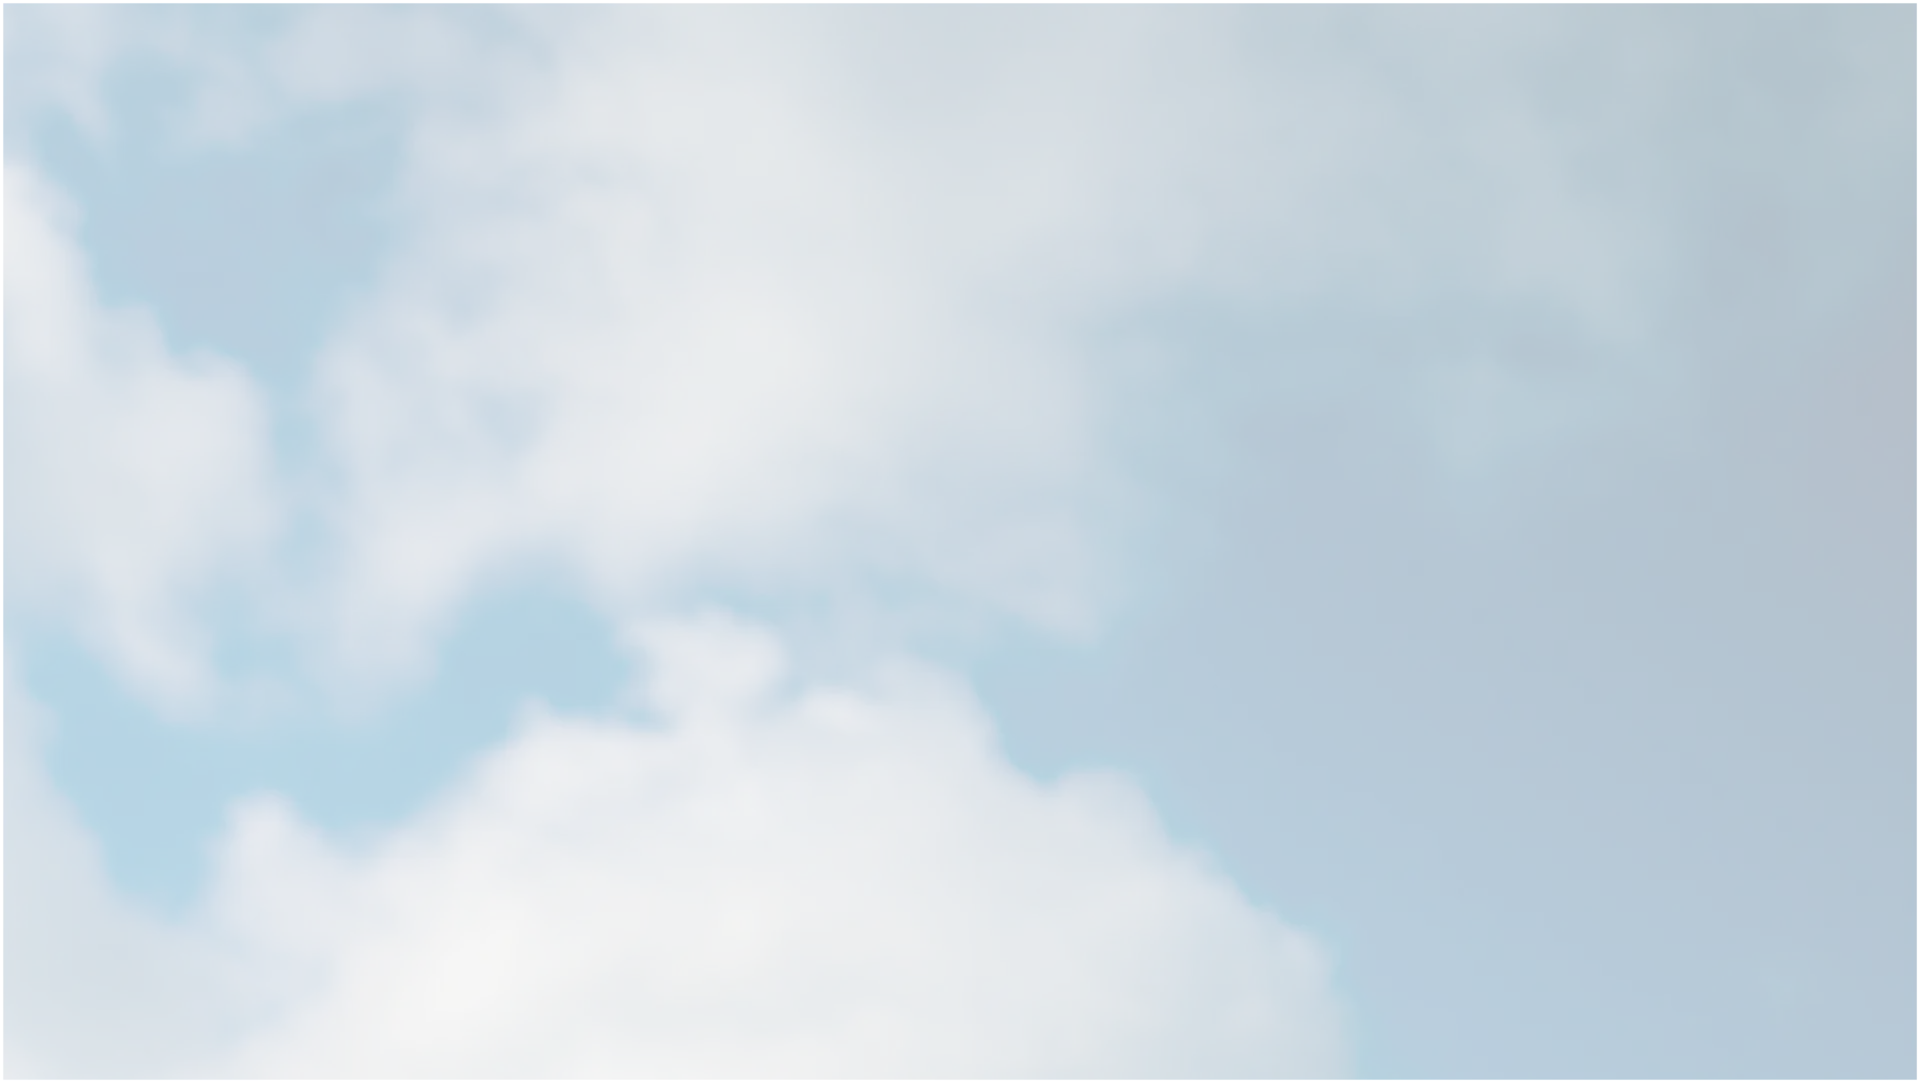
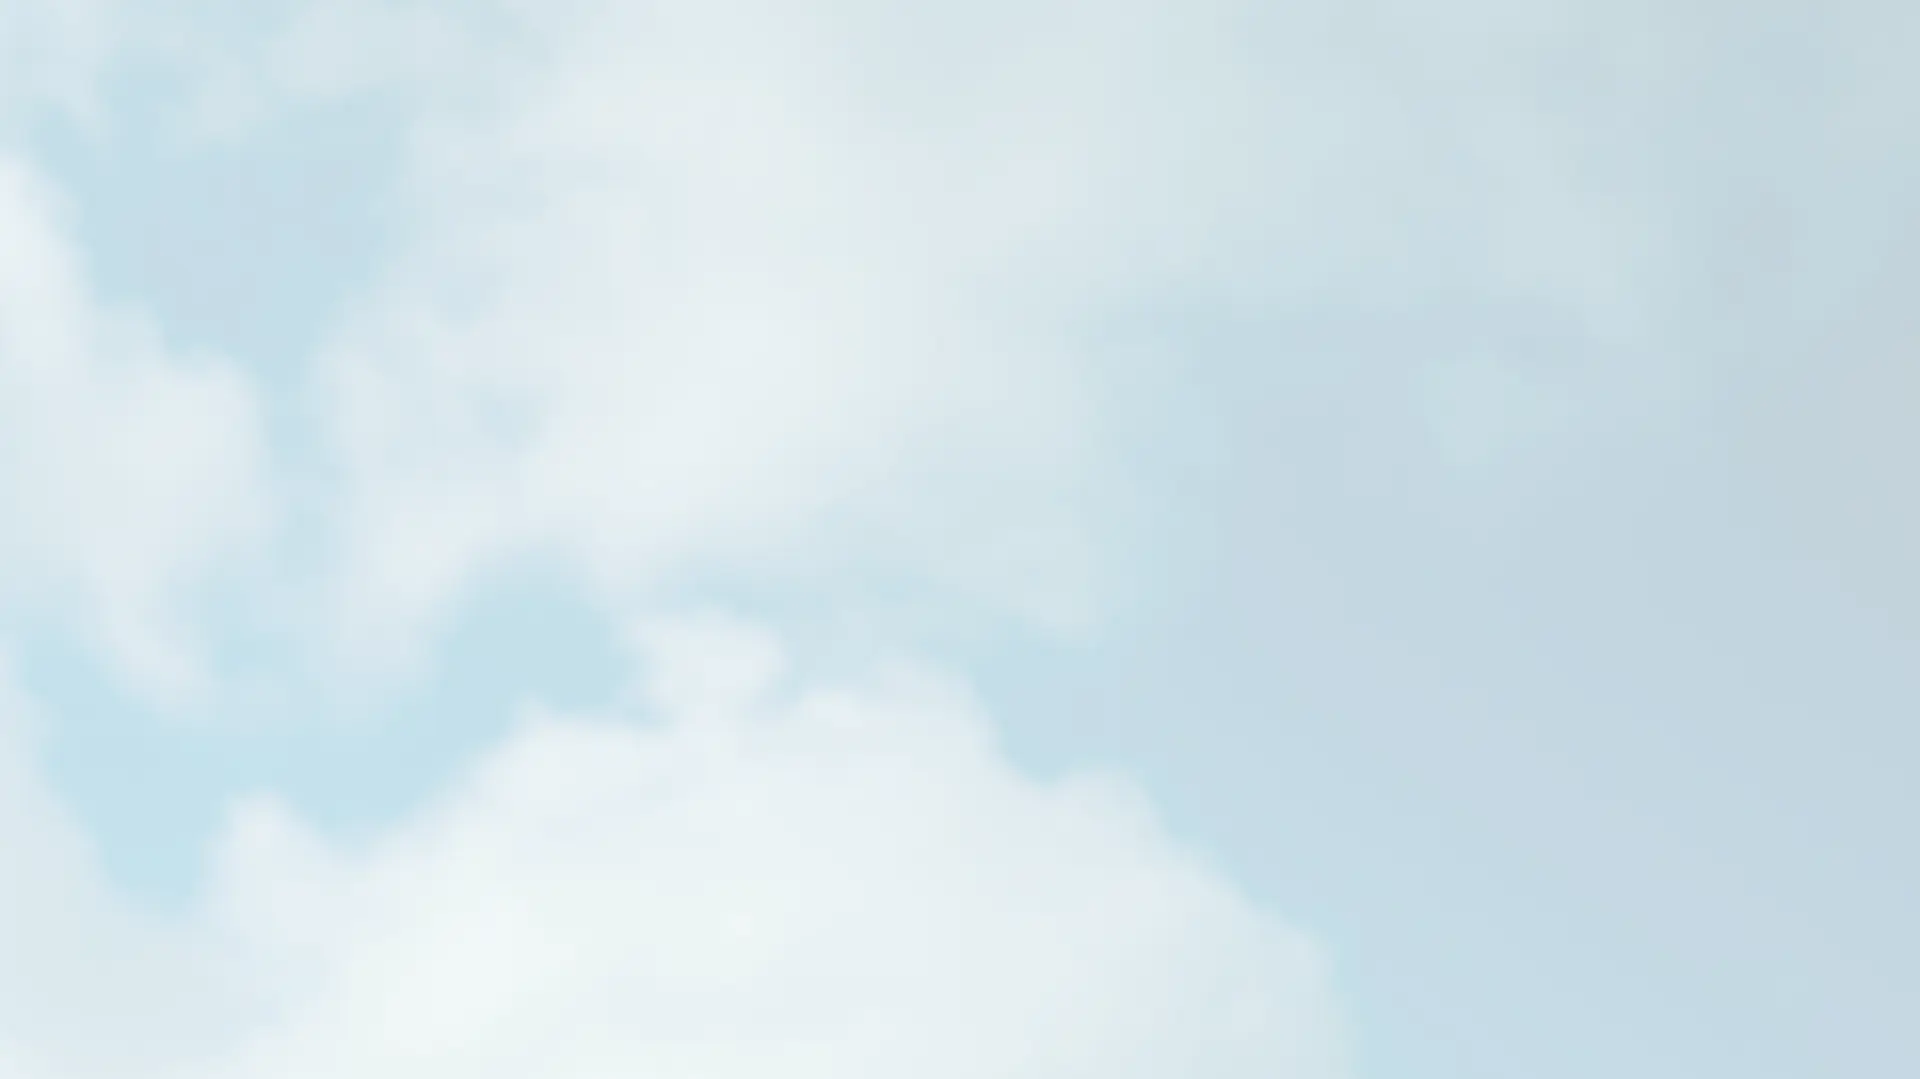
[fix] background

diff --git a/css/style.css b/css/style.css
@@ -15,7 +15,6 @@ body {
   font-family: "Klee";
 }
 
-
 /* ファーストビュー */
 .firstview {
   background-color: rgba(0, 0, 0, .0);
@@ -62,14 +61,10 @@ body {
 
 .background {
   position: fixed;
-  background-color: rgba(230, 254, 255, 0.3);
-  mix-blend-mode: lighten;
-  margin: 0px;
-  height: 102vh;
-  width: 102vw;
-  top: 50%;
-  left: 50%;
-  transform: translate(-50%, -50%);
+  height: 100vh;
+  width: 100vw;
+  top: 0vh;
+  left: 0vw;
   object-fit: cover;
   z-index: -10;
 }
